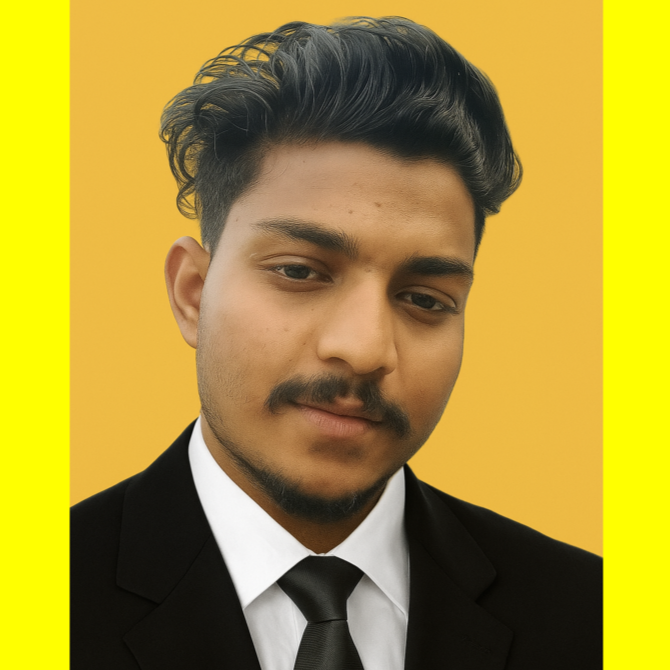
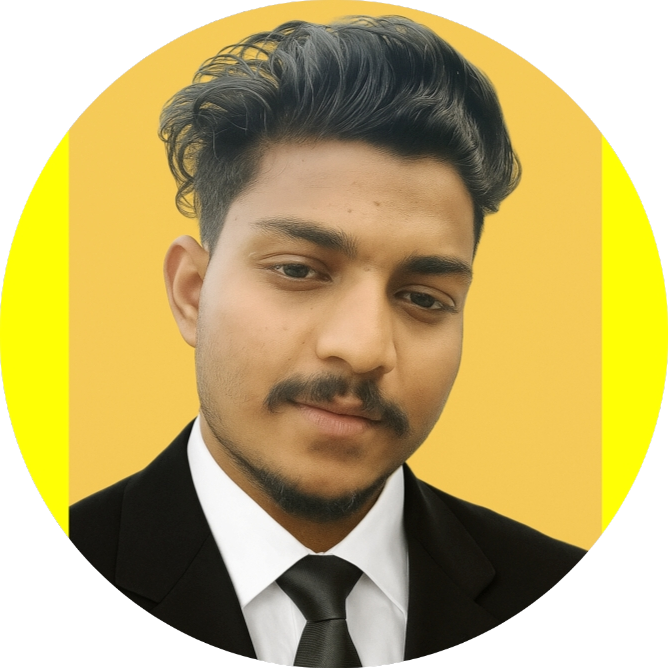
modification

diff --git a/src/constants.js b/src/constants.js
@@ -4,7 +4,6 @@
 import htmlLogo from './assets/techLogo/html.png';
 import cssLogo from './assets/techLogo/css.png';
 import javascript from "./assets/techLogo/javascript.png";
-
 import reactLogo from './assets/techLogo/reactjs.png';
 import reduxLogo from './assets/techLogo/redux.png';
 import tailwindLogo from './assets/techLogo/tailwindcss.png';
@@ -45,18 +44,6 @@ import Spotify from './assets/spotify.png'
 
 import SchoolLogo from './assets/school.jpeg'
 import CollegeLogo from './assets/college.jpeg'
-
-
-
-
-
-
-
-
-
-
-
-
 
 
 
@@ -103,10 +90,6 @@ export const SkillsInfo = [
         ],
     },
 ];
-
-
-
-
 
 
 

diff --git a/index.html b/index.html
@@ -3,7 +3,7 @@
 
 <head>
   <meta charset="UTF-8" />
-  <link rel="icon" type="image/svg+xml" href="/vite.svg" />
+  <link rel="icon" type="image/svg+xml" href="src/assets/Profile.png" />
   <meta name="viewport" content="width=device-width, initial-scale=1.0" />
   <title>Gaurav Kumar</title>
 </head>
